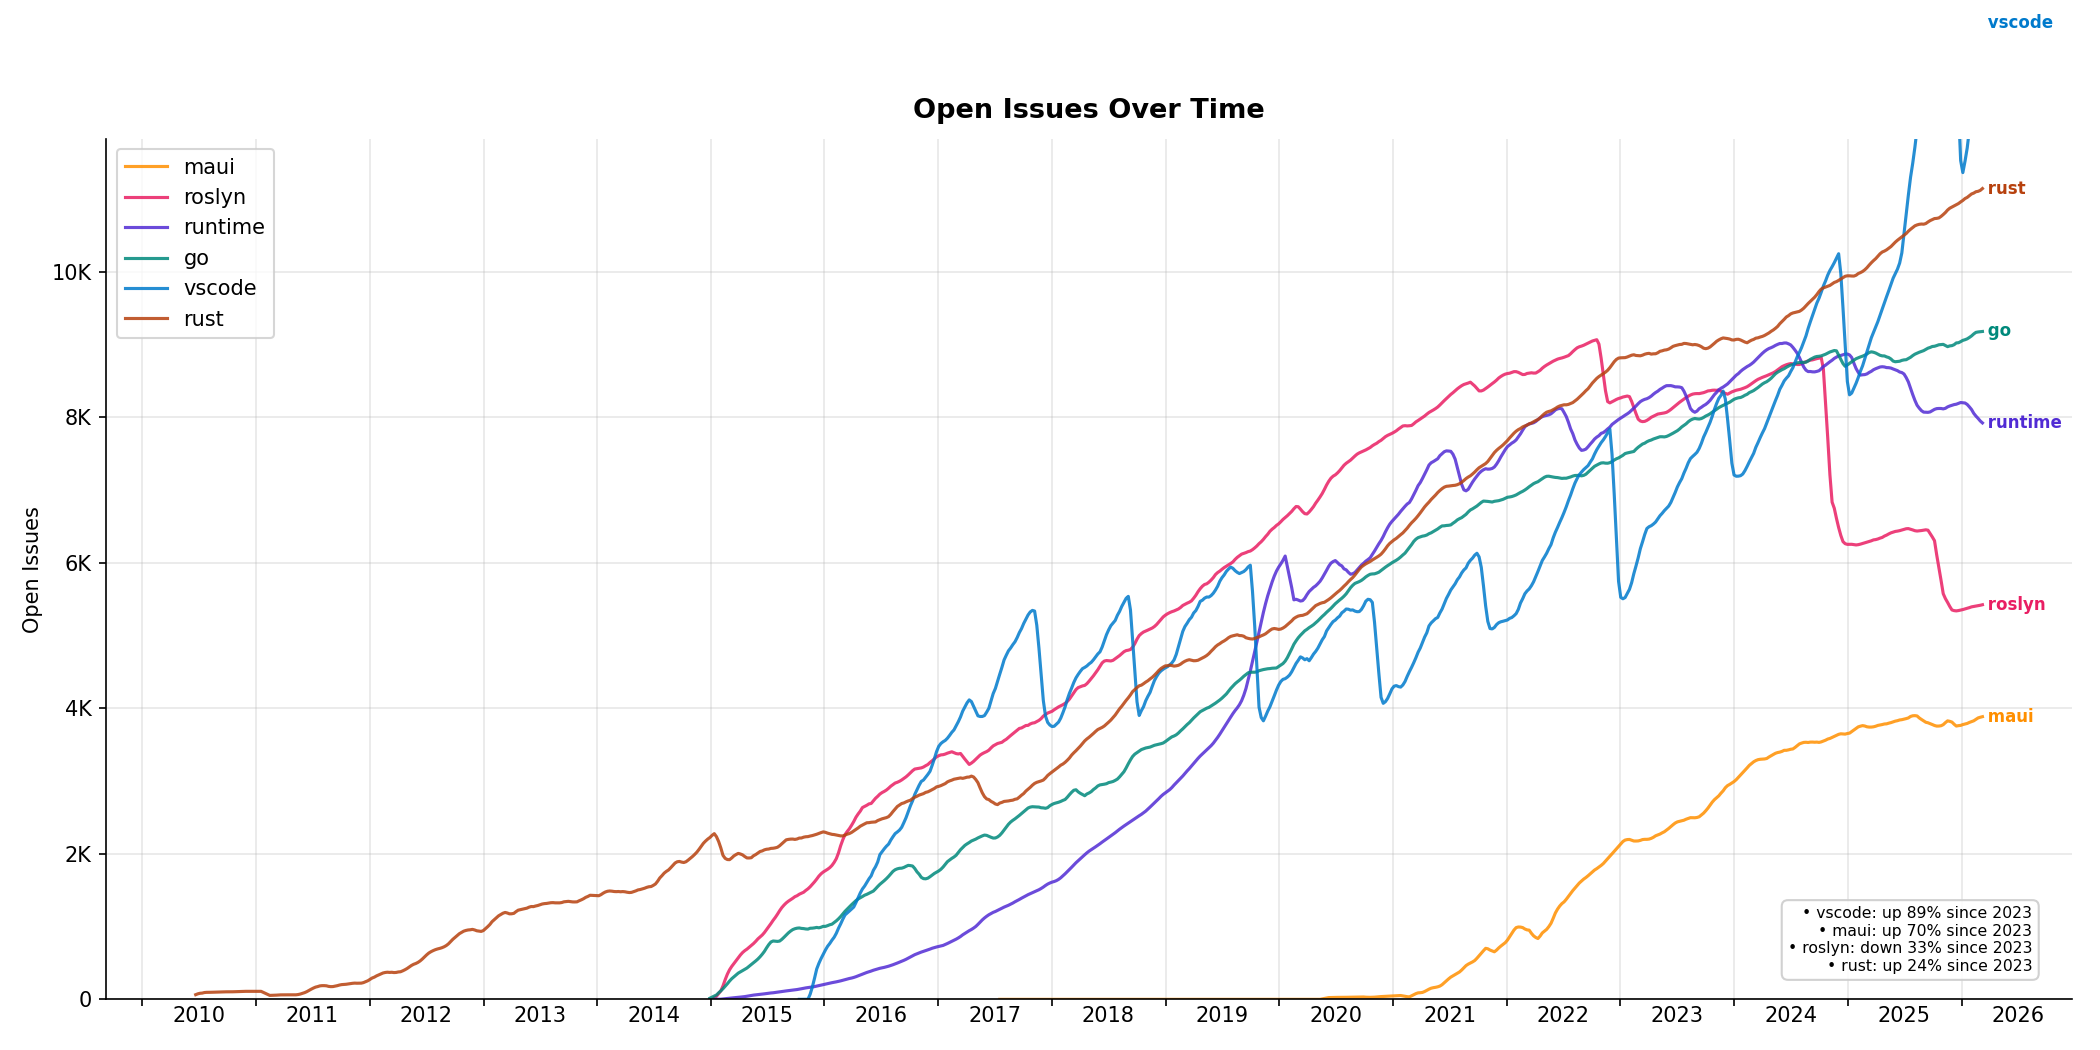
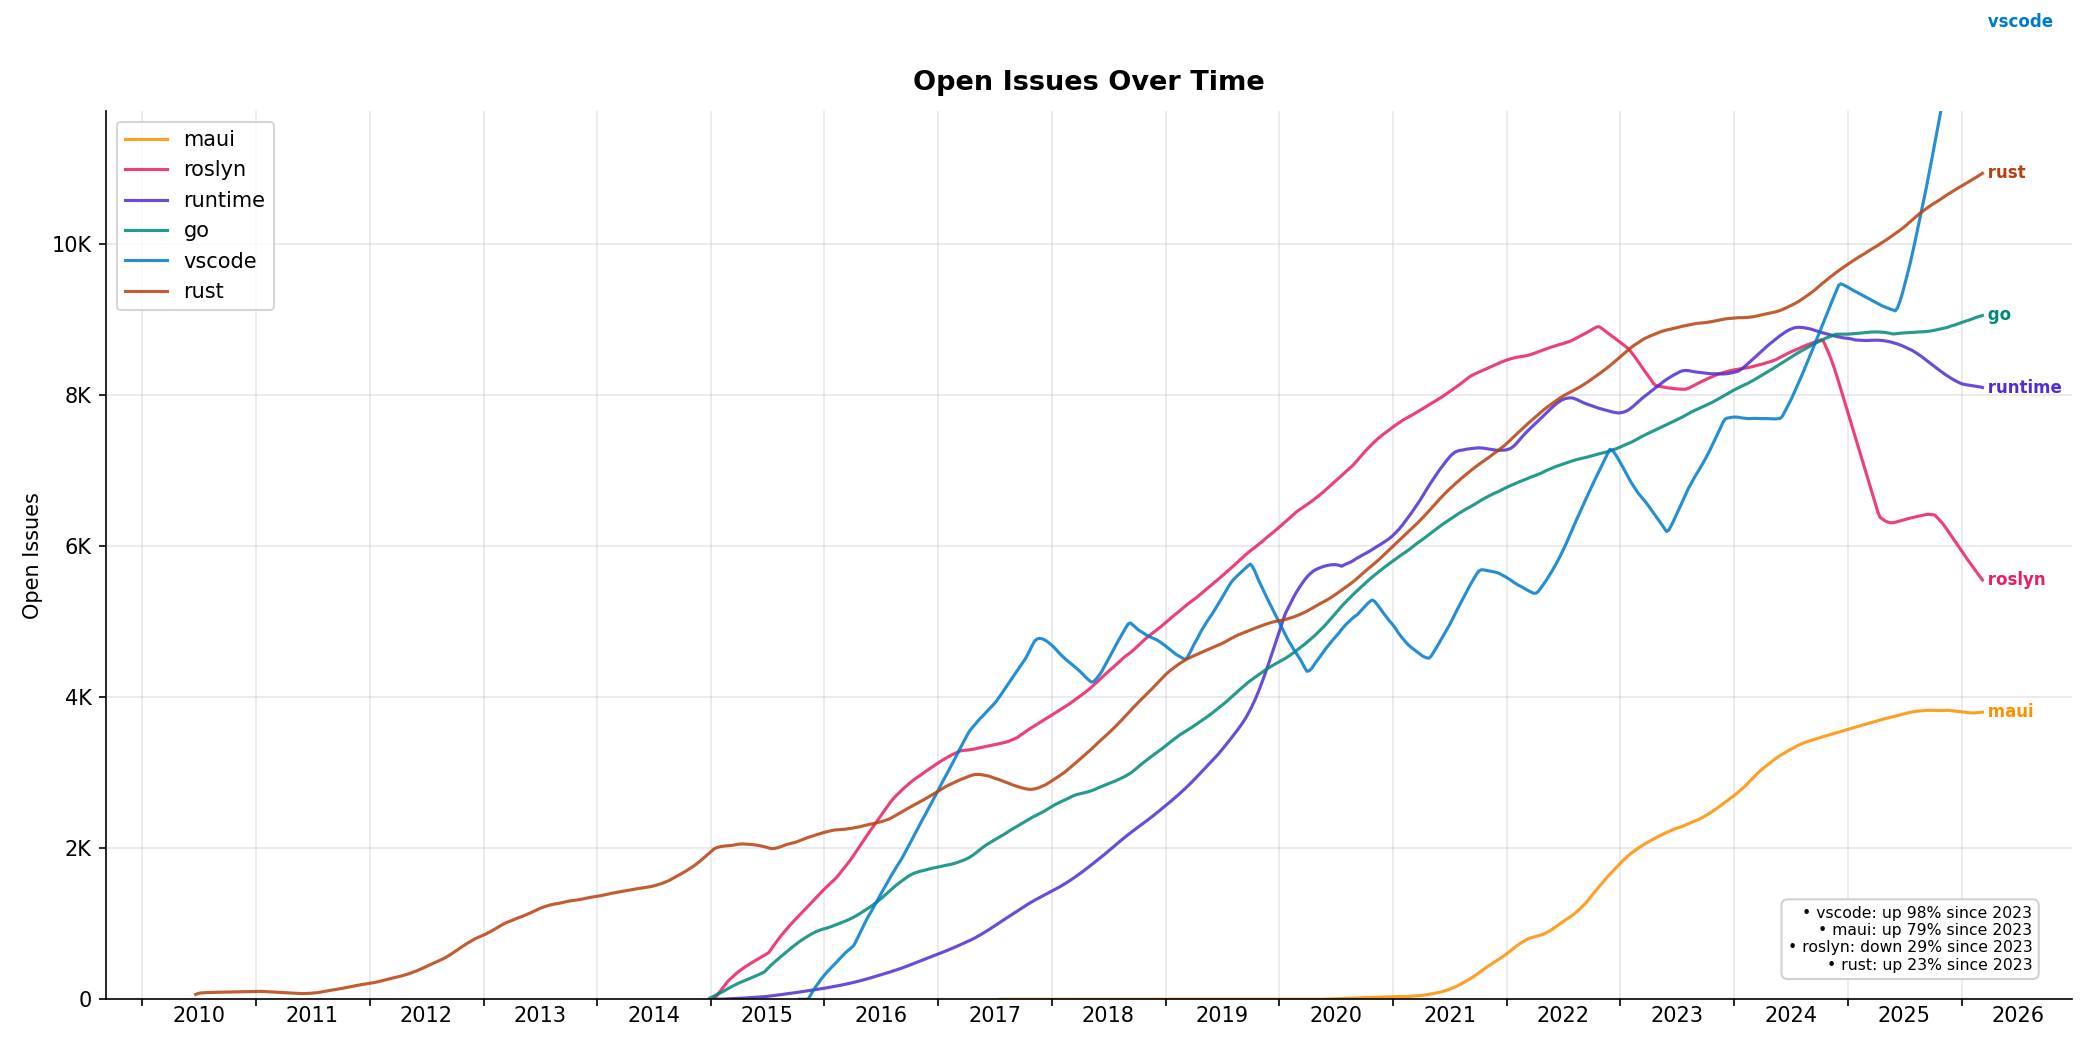
26-week smoothing on open issues/PRs, 12-month on time-to-merge

diff --git a/analyze.py b/analyze.py
@@ -597,7 +597,7 @@ def chart_open_issues_comparison(all_series, output_dir):
     for repo, series in all_series.items():
         if not series:
             continue
-        s = smooth(series["open_issues"], window=4)
+        s = smooth(series["open_issues"], window=26)
         ax.plot(series["weeks"], s,
                 color=get_color(repo), label=get_short(repo),
                 linewidth=1.5, alpha=0.85)
@@ -613,7 +613,7 @@ def chart_open_issues_comparison(all_series, output_dir):
     for repo, series in all_series.items():
         if not series:
             continue
-        s = smooth(series["open_issues"], window=4)
+        s = smooth(series["open_issues"], window=26)
         r = series_pct_change(series["weeks"], s, years_back=3)
         if r:
             direction = "up" if r[0] > 0 else "down"
@@ -639,7 +639,7 @@ def chart_open_prs_comparison(all_series, output_dir):
     for repo, series in all_series.items():
         if not series:
             continue
-        s = smooth(series["open_prs"], window=13)
+        s = smooth(series["open_prs"], window=26)
         ax.plot(series["weeks"], s,
                 color=get_color(repo), label=get_short(repo),
                 linewidth=1.5, alpha=0.85)
@@ -655,7 +655,7 @@ def chart_open_prs_comparison(all_series, output_dir):
     for repo, series in all_series.items():
         if not series:
             continue
-        s = smooth(series["open_prs"], window=13)
+        s = smooth(series["open_prs"], window=26)
         r = series_pct_change(series["weeks"], s, years_back=3)
         if r:
             direction = "up" if r[0] > 0 else "down"
@@ -916,7 +916,7 @@ def chart_sustainability_score(all_series, output_dir):
 def chart_time_to_merge(all_ttm, output_dir):
     """Median time-to-merge (days) per month, all repos. Excludes Gerrit repos."""
     fig, ax = plt.subplots(figsize=(14, 7))
-    setup_axes(ax, "Time to Merge PRs — 75th Percentile (Monthly, 4-month avg)", "Days")
+    setup_axes(ax, "Time to Merge PRs — 75th Percentile (12-month avg)", "Days")
     ax.yaxis.set_major_formatter(FuncFormatter(lambda x, p: f"{x:.0f}"))
 
     visible_data = []
@@ -924,7 +924,7 @@ def chart_time_to_merge(all_ttm, output_dir):
     for repo, (months, medians) in all_ttm.items():
         if not months or repo in GERRIT_REPOS:
             continue
-        smoothed = smooth(medians, window=4)
+        smoothed = smooth(medians, window=12)
         ax.plot(months, smoothed,
                 color=get_color(repo), label=get_short(repo),
                 linewidth=1.5, alpha=0.85)
